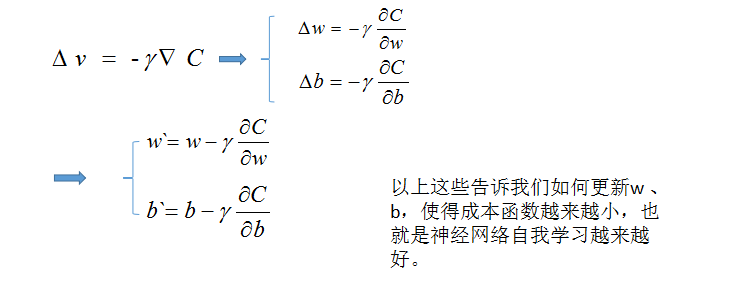
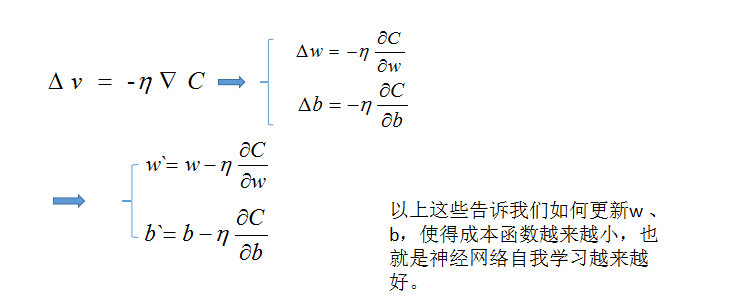
add all files

diff --git a/chapter2/4.md b/chapter2/4.md
@@ -22,4 +22,62 @@
 ![chapter2_biaoshi_zhuanhuan]( ../image/chapter2/chapter2_biaoshi_zhuanhuan.png )
 
 
-就像上一幅图片里面介绍的，这些简化的步骤最终告诉我们如何更新神经网络的权值以及阈值，在每次进行迭代的时候。
+我们把上次的`γ`换成现在的`η`，希望你不要误解，这其实只是一个符号的代换，没有别的用意。
+
+就像上一幅图片里面介绍的，这些简化的步骤最终告诉我们如何更新神经网络的权值以及阈值，在每次进行迭代的时候。我们需要知道下一个`w`、`b`的值是多少，我们只需要给定一个`η`值，也就是学习速率，然后在求解一下那个偏导数就行了，可能你还不太明白，我们接下来要介绍如何求解偏导数，需要用到一些求导的知识。
+
+
+### 求解偏导数
+
+#### 链式求导
+
+在我们对成本函数求偏导数之前，我们还是来讲解一下链式求导的一些知识吧！链式求导主要应用在复合函数求导方面，什么是复合函数？简单地说，复合函数就是一个函数的自变量是一个函数，平常我们所提到的函数的自变量都假设为一个简单的变量，复合函数就是把简单的变量搞成一个不太简单的函数，其实还是那个熟悉的味道，终归它还是一个普通的函数，就像那一句让人怀疑人生的名言——咸鱼翻了身还是咸鱼。看一下我们的复合函数的一个例子：
+
+```bash
+g(x) = x * x
+
+f(z) = sin( z )
+
+下面两个都可以称之为复合函数：
+
+G = g( f(x) ) 
+
+F = f( g(x) )
+
+当然，你还可以变化出多种的样式，不够我相信这个例子已经足够明显了。
+```
+
+我们就拿上面一个函数来举个例子吧——`G = g( f(x) )`，那么G关于`f(x)`的导数是什么呢？
+
+```bash
+G 关于f(x)的导数是：
+G' = 2 * f( x )
+
+那么G关于x的导数是什么呢？我们可以这样理解，G关于x的导数是G关于f(x)的导数然后f(x)关于x的导数的乘积，那么它的结果就是(使用G'(x) 表示G关于x的导数）：
+
+G'(x) = G'(f)* f'(x) = 2 * f(x) * cos( x ) = 2 * sin( x ) * cos( x )
+```
+
+用符号表示就是：
+![chapter2_chain_rule]( ../image/chapter2/chapter2_chain_rule.png )
+
+好了，关于链式求导我们讲解到此就结束了，如果你觉得我的解释不够清楚的话，我建议你先跳到这个链接学习一下——[维基百科——链式法则](https://zh.wikipedia.org/wiki/%E9%93%BE%E5%BC%8F%E6%B3%95%E5%88%99)。
+
+#### 成本函数的偏导数
+
+我们这里在把成本函数列出来，然后看看我们具体的求解步骤：
+![chapter2_remain_cost_function]( ../image/chapter2/chapter2_remain_cost_function.png )
+
+![chapter2_chain_rule_apply_to_cost_function]( ../image/chapter2/chapter2_chain_rule_apply_to_cost_function.png )
+
+![chapter2_chain_rule_apply_to_cost_function_1]( ../image/chapter2/chapter2_chain_rule_apply_to_cost_function_1.png )
+
+关于最后那个`a'(z)`是怎么求导的，在下面的图片中，打这些公式真是麻烦，所以幸好在网上有一位好心人发出来了，我就顺便截个图，其实它的解法也很简单，使用的也是复合函数求导的技巧，我可以给你一个连接，如果你有兴趣的话，可以进去看看——[sigmoid函数求导链接](http://tieba.baidu.com/p/3526239227)
+
+![chapter2_sigmoid_qiudao]( ../image/chapter2/chapter2_sigmoid_qiudao.png )
+
+
+
+好了，我们已经解决了怎么使用梯度下降法来寻找下一个权值与阈值的问题了，接下来我们应该做的是如何使用反向传播这个算法了，那就往下看吧！
+
+[Prev]( 3.md ) [Next]( 5.md )
